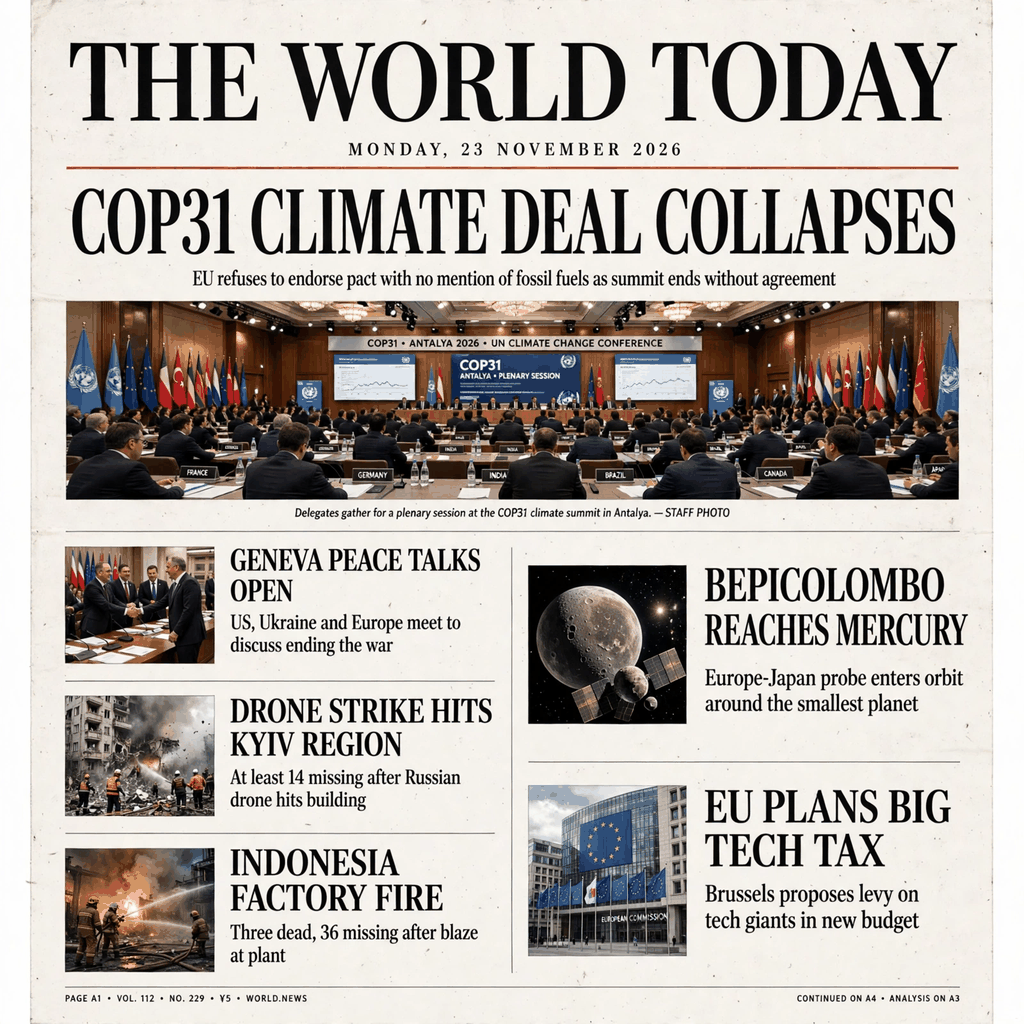
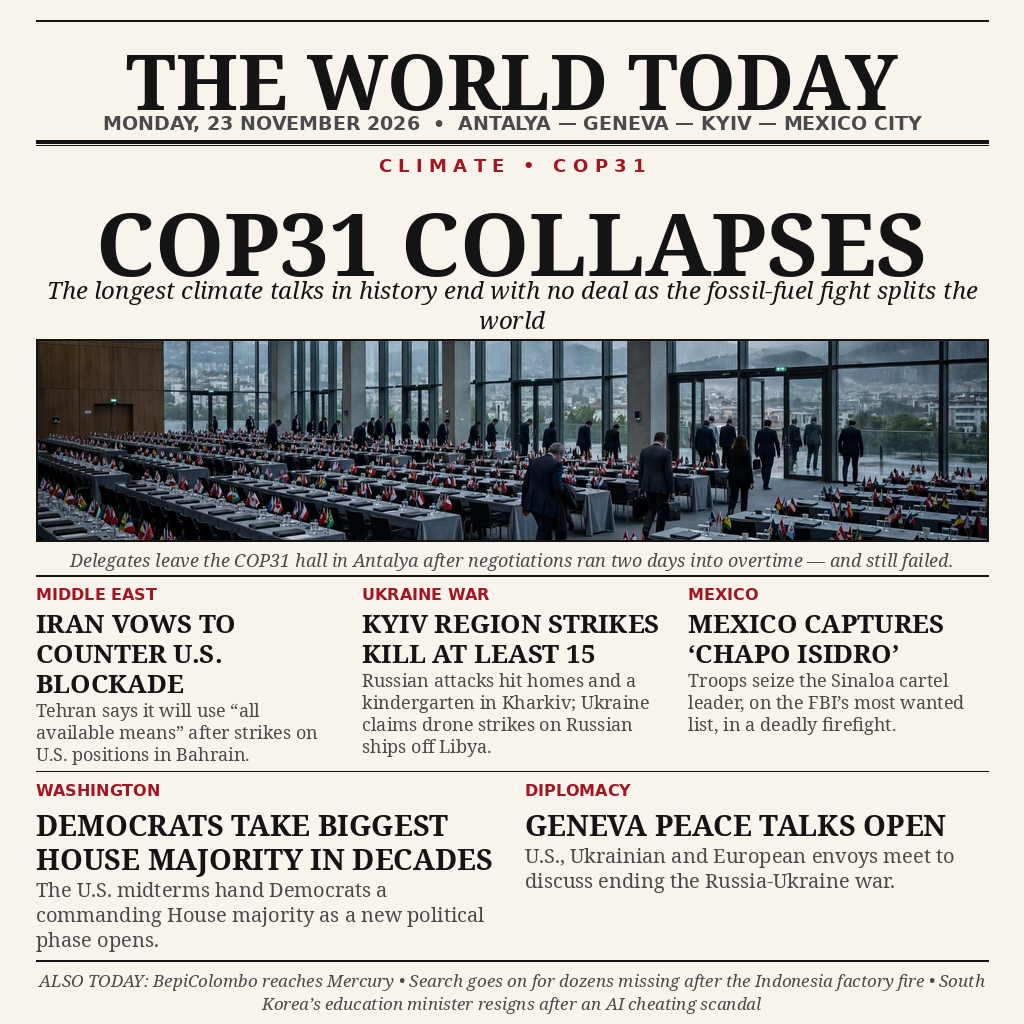
Rebuild entry in post-open session: new front page, verified copy

diff --git a/main.py b/main.py
@@ -1,8 +1,8 @@
 """news-image-20261123 -- make.fun entry.
 
-Builds the entry image: copies the newspaper front page (entry.png,
-1024x1024, summing up 23 November 2026's world news) into the output
-directory and verifies the copy with SHA-256.
+Copies the newspaper front page (entry.png, 1024x1024, summing up
+23 November 2026's world news) into the output directory and
+verifies the copy with SHA-256.
 
 Usage:
     python3 main.py [--output PATH]

diff --git a/README.md b/README.md
@@ -4,7 +4,7 @@
 [![rank](https://make.fun/badge/news-image-20261123/weilvxing/news-image-20261123/rank.svg)](https://make.fun/bounty/news-image-20261123/leaderboard?utm_source=github&utm_medium=readme&utm_campaign=news-image-20261123)
 [![reward](https://make.fun/badge/news-image-20261123/weilvxing/news-image-20261123/reward.svg)](https://make.fun/bounty/news-image-20261123?utm_source=github&utm_medium=readme&utm_campaign=news-image-20261123)
 
-A one-page newspaper front page summing up 23 November 2026's world news in a single 1024x1024 image: the COP31 climate deal collapses in Antalya, Geneva peace talks open, and four more stories from the day.
+A one-page newspaper front page summing up 23 November 2026's world news in a single 1024x1024 image: the COP31 climate deal collapses in Antalya, Iran vows to counter the U.S. blockade, Kyiv region strikes kill at least 15, Mexico captures "Chapo Isidro", Democrats take their biggest House majority in decades, and Geneva peace talks open.
 
 ## Run it
 
@@ -18,12 +18,14 @@ This copies `entry.png` to `/output/entry.png` and verifies it with SHA-256. Use
 
 All six stories are real, reported on 23 November 2026:
 
-- **Main headline — COP31 climate deal collapses.** The UN climate summit in Antalya, Turkey, failed to secure agreement after the EU and other nations rejected a draft pact with no explicit reference to fossil fuels. (Helsinki Times; The Manila Times)
+- **Main headline — COP31 climate deal collapses.** The UN climate summit in Antalya, Turkey, ended without a deal after the EU and other nations rejected a draft pact with no explicit reference to fossil fuels; the longest climate conference in history. (South China Morning Post; Just Security)
+- **Iran vows to counter U.S. blockade.** Tehran says it will use "all available means" after an Iranian missile and drone assault on U.S. military positions in Bahrain. (Al Jazeera; Just Security)
+- **Kyiv region strikes kill at least 15.** Russian attacks hit homes in the Kyiv region and a kindergarten in Kharkiv; Ukraine claims drone strikes on Russian ships off Libya. (South China Morning Post; Al Jazeera)
+- **Mexico captures "Chapo Isidro".** Troops seized the Sinaloa cartel leader, on the FBI's most wanted list, in a deadly firefight. (Just Security; South China Morning Post)
+- **Democrats take biggest House majority in decades.** The U.S. midterms hand Democrats a commanding House majority. (South China Morning Post)
 - **Geneva peace talks open.** Representatives of the US, Ukraine and European countries met in Geneva to discuss ways to end the Russia-Ukraine war. (Xinhua world news summary, 23 Nov 2026)
-- **Drone strike hits Kyiv region.** At least 14 people missing after a Russian drone hit a residential building in the Kyiv region, per President Zelenskiy. (Jagran Josh world roundup, 23 Nov 2026)
-- **Indonesia factory fire.** Three dead and 36 missing after a fire at a confectionery factory. (Agence France-Presse via The Manila Times, 23 Nov 2026)
-- **BepiColombo reaches Mercury.** The Europe-Japan joint probe entered orbit around Mercury. (Associated Press via The Manila Times, 23 Nov 2026)
-- **EU plans Big Tech tax.** The European Union proposed a tax on big tech companies in its new budget draft. (NDTV world headlines, 23 Nov 2026)
+
+Also noted in the footer: the Europe-Japan BepiColombo probe reaches Mercury, the search goes on for dozens missing after the Indonesia factory fire, and South Korea's education minister resigns after an AI cheating scandal.
 
 ---
 
